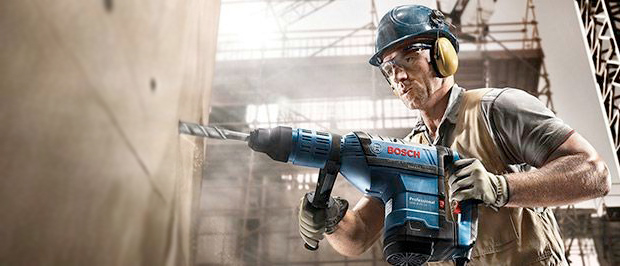
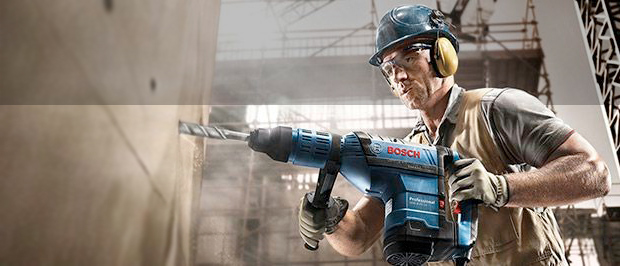
доделал фильтр, сделал сортировку по товарам

diff --git a/catalog.html b/catalog.html
@@ -40,7 +40,7 @@
 							</a>
 						</li>
 						<li class="top-btn green">
-							<a href="#">Офоромить заказ</a>
+							<a href="#">Оформить заказ</a>
 						</li>
 					</ul>
 				</div>
@@ -59,7 +59,7 @@
 							<div class="title-number">
 								<a href="tel:+74955550555">
 									<svg class="icon-phone" xmlns="http://www.w3.org/2000/svg" width="19" height="19" viewBox="0 0 19 19"><path fill="#B7BFC8" d="M15.572 18.985h-.941c-4.129-.488-7.157-2.408-9.359-4.864C3.062 11.66 1.318 8.492.978 4.228V3.084c.078-.774.459-1.304.898-1.757C2.425.766 3.25.044 4.002.019c.554-.018 1.5.38 1.879.899.329.446.504 1.339.656 2.003.154.671.505 1.643.408 2.289-.148 1.007-1.487 1.434-1.879 2.166 1.307 3.135 3.443 5.439 6.293 7.031.715-.392 1.346-1.572 2.332-1.595.359-.009.818.178 1.184.286.402.121.75.275 1.104.408.596.224 1.648.521 2.004 1.021.365.513.57 1.356.49 1.879-.164 1.041-1.879 2.197-2.901 2.579z"/></svg>
-									<span>+7 (495) 555-05-55</span>
+									<span>+7 (812) 555-05-55</span>
 								</a>
 							</div>
 							<span class="title-address">г. Санкт-Петербург, ул. Б. Конюшенная, д. 19/8</span>
@@ -164,50 +164,50 @@
 							<fieldset class="filter__manufacturers">
 								<legend>Производители:</legend>
 									<ul>
-										<li class="manufacturers__item">
+										<li class="filter__item">
 											<input type="checkbox" class="filter__input--checkbox" id="filter-manufacturers-bosch" name="Bosch">
 											<label for="filter-manufacturers-bosch" class="filter__checkbox">
-												<span class="checkbox-indicator">
+												<span class="filter-indicator">
 													<svg xmlns="http://www.w3.org/2000/svg" width="23" height="23" viewBox="0 0 23 23" class="checkbox-off"><path d="M20 2c.542 0 1 .458 1 1v17c0 .542-.458 1-1 1H3c-.542 0-1-.458-1-1V3c0-.542.458-1 1-1h17m0-2H3C1.35 0 0 1.35 0 3v17c0 1.65 1.35 3 3 3h17c1.65 0 3-1.35 3-3V3c0-1.65-1.35-3-3-3z"/></svg>
 													<svg xmlns="http://www.w3.org/2000/svg" width="27" height="23" viewBox="0 0 27 23" class="checkbox-on"><path d="M7.285 7.486l-2.829 2.829 7.783 7.783L26.171 4.166l-2.828-2.829-11.104 11.102z"/><path d="M21 20c0 .542-.458 1-1 1H3c-.542 0-1-.458-1-1V3c0-.542.458-1 1-1h16.908L21.493.415A2.96 2.96 0 0 0 20 0H3C1.35 0 0 1.35 0 3v17c0 1.65 1.35 3 3 3h17c1.65 0 3-1.35 3-3v-9.829l-2 2V20z"/></svg>
 												</span>
 												Bosch
 											</label>
 										</li>
-										<li class="manufacturers__item">
+										<li class="filter__item">
 											<input type="checkbox" class="filter__input--checkbox" id="filter-manufacturers-interskol" name="Интерскол">
 											<label for="filter-manufacturers-interskol" class="filter__checkbox">
-												<span class="checkbox-indicator">
+												<span class="filter-indicator">
 													<svg xmlns="http://www.w3.org/2000/svg" width="23" height="23" viewBox="0 0 23 23" class="checkbox-off"><path d="M20 2c.542 0 1 .458 1 1v17c0 .542-.458 1-1 1H3c-.542 0-1-.458-1-1V3c0-.542.458-1 1-1h17m0-2H3C1.35 0 0 1.35 0 3v17c0 1.65 1.35 3 3 3h17c1.65 0 3-1.35 3-3V3c0-1.65-1.35-3-3-3z"/></svg>
 													<svg xmlns="http://www.w3.org/2000/svg" width="27" height="23" viewBox="0 0 27 23" class="checkbox-on"><path d="M7.285 7.486l-2.829 2.829 7.783 7.783L26.171 4.166l-2.828-2.829-11.104 11.102z"/><path d="M21 20c0 .542-.458 1-1 1H3c-.542 0-1-.458-1-1V3c0-.542.458-1 1-1h16.908L21.493.415A2.96 2.96 0 0 0 20 0H3C1.35 0 0 1.35 0 3v17c0 1.65 1.35 3 3 3h17c1.65 0 3-1.35 3-3v-9.829l-2 2V20z"/></svg>
 												</span>
 												Интерскол
 											</label>
 										</li>
-										<li class="manufacturers__item">
+										<li class="filter__item">
 											<input type="checkbox" class="filter__input--checkbox" id="filter-manufacturers-makita" name="Makita">
 											<label for="filter-manufacturers-makita" class="filter__checkbox">
-												<span class="checkbox-indicator">
+												<span class="filter-indicator">
 													<svg xmlns="http://www.w3.org/2000/svg" width="23" height="23" viewBox="0 0 23 23" class="checkbox-off"><path d="M20 2c.542 0 1 .458 1 1v17c0 .542-.458 1-1 1H3c-.542 0-1-.458-1-1V3c0-.542.458-1 1-1h17m0-2H3C1.35 0 0 1.35 0 3v17c0 1.65 1.35 3 3 3h17c1.65 0 3-1.35 3-3V3c0-1.65-1.35-3-3-3z"/></svg>
 													<svg xmlns="http://www.w3.org/2000/svg" width="27" height="23" viewBox="0 0 27 23" class="checkbox-on"><path d="M7.285 7.486l-2.829 2.829 7.783 7.783L26.171 4.166l-2.828-2.829-11.104 11.102z"/><path d="M21 20c0 .542-.458 1-1 1H3c-.542 0-1-.458-1-1V3c0-.542.458-1 1-1h16.908L21.493.415A2.96 2.96 0 0 0 20 0H3C1.35 0 0 1.35 0 3v17c0 1.65 1.35 3 3 3h17c1.65 0 3-1.35 3-3v-9.829l-2 2V20z"/></svg>
 												</span>
 												Makita
 											</label>
 										</li>
-										<li class="manufacturers__item">
+										<li class="filter__item">
 											<input type="checkbox" class="filter__input--checkbox" id="filter-manufacturers-dewalt" name="Dewalt">
 											<label for="filter-manufacturers-dewalt" class="filter__checkbox">
-												<span class="checkbox-indicator">
+												<span class="filter-indicator">
 													<svg xmlns="http://www.w3.org/2000/svg" width="23" height="23" viewBox="0 0 23 23" class="checkbox-off"><path d="M20 2c.542 0 1 .458 1 1v17c0 .542-.458 1-1 1H3c-.542 0-1-.458-1-1V3c0-.542.458-1 1-1h17m0-2H3C1.35 0 0 1.35 0 3v17c0 1.65 1.35 3 3 3h17c1.65 0 3-1.35 3-3V3c0-1.65-1.35-3-3-3z"/></svg>
 													<svg xmlns="http://www.w3.org/2000/svg" width="27" height="23" viewBox="0 0 27 23" class="checkbox-on"><path d="M7.285 7.486l-2.829 2.829 7.783 7.783L26.171 4.166l-2.828-2.829-11.104 11.102z"/><path d="M21 20c0 .542-.458 1-1 1H3c-.542 0-1-.458-1-1V3c0-.542.458-1 1-1h16.908L21.493.415A2.96 2.96 0 0 0 20 0H3C1.35 0 0 1.35 0 3v17c0 1.65 1.35 3 3 3h17c1.65 0 3-1.35 3-3v-9.829l-2 2V20z"/></svg>
 												</span>
 												Dewalt
 											</label>
 										</li>
-										<li class="manufacturers__item">
+										<li class="filter__item">
 											<input type="checkbox" class="filter__input--checkbox" id="filter-manufacturers-hitachi" name="Hitachi">
 											<label for="filter-manufacturers-hitachi" class="filter__checkbox">
-												<span class="checkbox-indicator">
+												<span class="filter-indicator">
 													<svg xmlns="http://www.w3.org/2000/svg" width="23" height="23" viewBox="0 0 23 23" class="checkbox-off"><path d="M20 2c.542 0 1 .458 1 1v17c0 .542-.458 1-1 1H3c-.542 0-1-.458-1-1V3c0-.542.458-1 1-1h17m0-2H3C1.35 0 0 1.35 0 3v17c0 1.65 1.35 3 3 3h17c1.65 0 3-1.35 3-3V3c0-1.65-1.35-3-3-3z"/></svg>
 													<svg xmlns="http://www.w3.org/2000/svg" width="27" height="23" viewBox="0 0 27 23" class="checkbox-on"><path d="M7.285 7.486l-2.829 2.829 7.783 7.783L26.171 4.166l-2.828-2.829-11.104 11.102z"/><path d="M21 20c0 .542-.458 1-1 1H3c-.542 0-1-.458-1-1V3c0-.542.458-1 1-1h16.908L21.493.415A2.96 2.96 0 0 0 20 0H3C1.35 0 0 1.35 0 3v17c0 1.65 1.35 3 3 3h17c1.65 0 3-1.35 3-3v-9.829l-2 2V20z"/></svg>
 												</span>
@@ -216,10 +216,47 @@
 										</li>
 									</ul>
 							</fieldset>
+							<fieldset class="filter__power">
+								<legend>Питание:</legend>
+									<ul>
+										<li class="filter__item">
+											<input type="radio" class="filter__input--radio" id="filter-power-battery" name="power" value="battery">
+											<label for="filter-power-battery" class="filter__radio">
+												<span class="filter-indicator">
+													<svg xmlns="http://www.w3.org/2000/svg" width="25" height="25" viewBox="0 0 25 25" class="radio-off"><path d="M12.5 4c4.687 0 8.5 3.813 8.5 8.5 0 4.687-3.813 8.5-8.5 8.5C7.813 21 4 17.187 4 12.5 4 7.813 7.813 4 12.5 4m0-4C5.597 0 0 5.597 0 12.5S5.597 25 12.5 25 25 19.403 25 12.5 19.403 0 12.5 0z"/></svg>
+													<svg xmlns="http://www.w3.org/2000/svg" width="25" height="25" viewBox="0 0 25 25" class="radio-on"><path d="M12.5 4c4.687 0 8.5 3.813 8.5 8.5 0 4.687-3.813 8.5-8.5 8.5C7.813 21 4 17.187 4 12.5 4 7.813 7.813 4 12.5 4m0-4C5.597 0 0 5.597 0 12.5S5.597 25 12.5 25 25 19.403 25 12.5 19.403 0 12.5 0z"/><circle cx="12.5" cy="12.5" r="4.5"/></svg>
+												</span>
+												Аккумуляторные
+											</label>
+										</li>
+										<li class="filter__item">
+											<input type="radio" class="filter__input--radio" id="filter-power-network" name="power" value="network">
+											<label for="filter-power-network" class="filter__radio">
+												<span class="filter-indicator">
+													<svg xmlns="http://www.w3.org/2000/svg" width="25" height="25" viewBox="0 0 25 25" class="radio-off"><path d="M12.5 4c4.687 0 8.5 3.813 8.5 8.5 0 4.687-3.813 8.5-8.5 8.5C7.813 21 4 17.187 4 12.5 4 7.813 7.813 4 12.5 4m0-4C5.597 0 0 5.597 0 12.5S5.597 25 12.5 25 25 19.403 25 12.5 19.403 0 12.5 0z"/></svg>
+													<svg xmlns="http://www.w3.org/2000/svg" width="25" height="25" viewBox="0 0 25 25" class="radio-on"><path d="M12.5 4c4.687 0 8.5 3.813 8.5 8.5 0 4.687-3.813 8.5-8.5 8.5C7.813 21 4 17.187 4 12.5 4 7.813 7.813 4 12.5 4m0-4C5.597 0 0 5.597 0 12.5S5.597 25 12.5 25 25 19.403 25 12.5 19.403 0 12.5 0z"/><circle cx="12.5" cy="12.5" r="4.5"/></svg>
+												</span>
+												Сетевые
+											</label>
+										</li>
+									</ul>
+							</fieldset>
+							<button type="submit" class="filter__submit">Показать</button>
 						</form>
 					</aside>
 					<section class="listing-wrap">
-						<div class="listing__sort"></div>
+						<div class="listing__sort bg-auxiliary">
+							<span class="sort__title">Сортировка:</span>
+							<div class="sort__links-wrap">
+								<a href="#" class="sort__price active" >По цене</a>
+								<a href="#" class="sort__type">По типу</a>
+								<a href="#" class="sort__functional">По функционалу</a>
+								<div class="sort__toggle">
+									<a href="#" class="toggle__up toggle__up--active"></a>
+									<a href="#" class="toggle__down"></a>
+								</div>
+							</div>
+						</div>
 						<section class="listing">
 							<article class="item">
 								<div class="item__top">

diff --git a/css/style.css b/css/style.css
@@ -52,7 +52,7 @@ em, i {
 }
 
 .header-top {
-	margin-bottom: 50px;
+	margin-bottom: 46px;
 	background-color: #293449;
 }
 .header-top a {
@@ -66,6 +66,7 @@ em, i {
 	padding: 0;
 	border: none;
 	background-color: inherit;
+	cursor: pointer;
 }
 .main-search button:focus {
 	outline: none;
@@ -108,8 +109,13 @@ em, i {
 }
 .top-menu a {
 	display: block;
-	padding: 12px 30px 12px 40px;
+	padding: 12px 30px 12px 45px;
 	white-space: nowrap;
+	font-size: 17px;
+	line-height: 18px;
+}
+.top-btn:nth-child(2) a {
+	padding-left: 50px;
 }
 .top-menu a:hover {
 	background-color: #212a3a;
@@ -153,16 +159,23 @@ a:active .icon-cart {
 }
 .logo {
 	width: 220px;
-	background-color: #ee3643;
 	position: relative;
 }
 .logo a {
 	display: block;
 	text-align: center;
 	vertical-align: middle;
-	padding: 7.5px 55px;
+	padding: 9px 55px;
 	text-transform: uppercase;
 	font-size: 24px;
+	line-height: 24px;
+	background-color: #ee3643;
+}
+.logo a:hover {
+	background-color: #ca2c37;
+}
+.logo a:active {
+	background-color: #ba2732;
 }
 .logo::after {
 	display: block;
@@ -630,6 +643,7 @@ nav {
 	text-transform: uppercase;
 	border-radius: 5px;
 	font-family: inherit;
+	cursor: pointer;
 }
 .item__in-cart {
 	display: inline-flex;
@@ -997,6 +1011,9 @@ footer {
 .owl-theme .owl-dots .owl-dot.active span {
 	background-color: #ee3643;
 }
+.owl-theme .owl-dots .owl-dot:focus {
+	outline: none;
+}
 /* Контент каталога */
 
 .breadcrumbs {
@@ -1073,6 +1090,10 @@ footer {
 	border-bottom: 1px solid #e5e5e5;
 	margin-bottom: 5px;
 }
+.filter fieldset:last-of-type {
+	border-bottom: none;
+	margin-bottom: 55px;
+}
 .filter legend {
 	padding: 13px 0 12px;
 	font-weight: bold;
@@ -1123,21 +1144,23 @@ footer {
 	align-self: center;
 	margin: 0 10px;
 }
-.manufacturers__item {
+.filter__item {
 	margin-bottom: 20px;
 	list-style: none;
 }
-.manufacturers__item:last-child {
+.filter__item:last-child {
 	margin-bottom: 0;
 }
-.filter__input--checkbox {
+.filter__input--checkbox,
+.filter__input--radio {
 	display: none;
 }
-.filter__checkbox {
+.filter__checkbox,
+.filter__radio {
 	text-overflow: ellipsis;
 	cursor: pointer;
 }
-.checkbox-indicator {
+.filter-indicator {
 	position: absolute;
 	content: "";
 	max-width: 27px;
@@ -1146,25 +1169,121 @@ footer {
 	top: 50%;
 	transform: translateY(-50%);
 }
-.checkbox-off {
+.checkbox-off,
+.radio-off {
 	fill: #c5c5c5;
 }
-.checkbox-on {
+.checkbox-on,
+.radio-on {
 	display: none;
 	fill: #c5c5c5;
 }
-.filter__checkbox:hover .checkbox-off {
+.filter__checkbox:hover .checkbox-off,
+.filter__radio:hover .radio-off {
 	fill: #b5b5b5;
 }
-.filter__input--checkbox:checked + .filter__checkbox .checkbox-off {
+.filter__input--checkbox:checked + .filter__checkbox .checkbox-off,
+.filter__input--radio:checked + .filter__radio .radio-off {
 	display: none;
 }
-.filter__input--checkbox:checked + .filter__checkbox .checkbox-on {
+.filter__input--checkbox:checked + .filter__checkbox .checkbox-on,
+.filter__input--radio:checked + .filter__radio .radio-on {
 	display: block;
 }
-.filter__checkbox:hover .checkbox-on {
+.filter__checkbox:hover .checkbox-on,
+.filter__radio:hover .radio-on {
 	fill: #b5b5b5;
 }
-.filter__input--checkbox:disabled + .filter__checkbox {
+.filter__input--checkbox:disabled + .filter__checkbox,
+.filter__input--radio:disabled + .filter__radio {
 	opacity: 0.4;
+}
+.filter__submit {
+	text-transform: uppercase;
+	font-family: inherit;
+	font-size: 13px;
+	line-height: 18px;
+	padding: 9px 38px;
+	border: 1px solid #e5e5e5;
+	border-radius: 3px;
+	background-color: #fff;
+	cursor: pointer;
+}
+.filter__submit:hover {
+	border: 1px solid #d5d5d5;
+	box-shadow: 0 0 1px 0 rgba(0,0,0,0.2);
+	transition: .15s;
+}
+.filter__submit:active {
+	border: 1px solid #aaaaaa;
+	transition: .1s;
+}
+.filter__submit:focus {
+	outline: none;
+}
+.listing__sort {
+	display: flex;
+	margin-bottom: 20px;
+	text-transform: uppercase;
+	padding: 10px 20px;
+	font-size: 13px;
+	line-height: 18px;
+}
+.sort__links-wrap {
+	margin-left: auto;
+	display: flex;
+}
+.sort__links-wrap a {
+	text-decoration: none;
+	border-bottom: 1px dotted #ee3643;
+	color: #b2b2b2;
+}
+.sort__links-wrap a:hover {
+	border-bottom: 1px solid #ee3643;
+	color: #000;
+}
+.sort__links-wrap a:active,
+.sort__links-wrap a.active {
+	border-bottom: none;
+	color: #ee3643;
+}
+.sort__functional {
+	margin-left: 65px;
+}
+.sort__type {
+	margin-left: 70px;
+}
+.sort__toggle {
+	width: 45px;
+	margin-left: 45px;
+	position: relative;
+}
+.sort__toggle .toggle__up {
+	position: absolute;
+	left: 0;
+	border-left: 7px solid transparent;
+	border-right: 7px solid transparent;
+	border-bottom: 14px solid #c5c5c5;
+}
+.sort__toggle .toggle__down {
+	position: absolute;
+	right: 0;
+	border-left: 7px solid transparent;
+	border-right: 7px solid transparent;
+	border-top: 14px solid #c5c5c5;
+	border-bottom: none;
+}
+.sort__toggle .toggle__up:hover {
+	border-bottom: 14px solid #000;
+}
+.sort__toggle .toggle__up:active,
+.sort__toggle .toggle__up--active {
+	border-bottom: 14px solid #ee3643;
+}
+.sort__toggle .toggle__down:hover {
+	border-top: 14px solid #000;
+}
+.sort__toggle .toggle__down:active,
+.sort__toggle .toggle__down--active {
+	border-top: 14px solid #ee3643;
 }

diff --git a/index.html b/index.html
@@ -43,7 +43,7 @@
 							</a>
 						</li>
 						<li class="top-btn green">
-							<a href="#">Офоромить заказ</a>
+							<a href="#">Оформить заказ</a>
 						</li>
 					</ul>
 				</div>
@@ -62,7 +62,7 @@
 							<div class="title-number">
 								<a href="tel:+74955550555">
 									<svg class="icon-phone" xmlns="http://www.w3.org/2000/svg" width="19" height="19" viewBox="0 0 19 19"><path fill="#B7BFC8" d="M15.572 18.985h-.941c-4.129-.488-7.157-2.408-9.359-4.864C3.062 11.66 1.318 8.492.978 4.228V3.084c.078-.774.459-1.304.898-1.757C2.425.766 3.25.044 4.002.019c.554-.018 1.5.38 1.879.899.329.446.504 1.339.656 2.003.154.671.505 1.643.408 2.289-.148 1.007-1.487 1.434-1.879 2.166 1.307 3.135 3.443 5.439 6.293 7.031.715-.392 1.346-1.572 2.332-1.595.359-.009.818.178 1.184.286.402.121.75.275 1.104.408.596.224 1.648.521 2.004 1.021.365.513.57 1.356.49 1.879-.164 1.041-1.879 2.197-2.901 2.579z"/></svg>
-									<span>+7 (495) 555-05-55</span>
+									<span>+7 (812) 555-05-55</span>
 								</a>
 							</div>
 							<span class="title-address">г. Санкт-Петербург, ул. Б. Конюшенная, д. 19/8</span>
@@ -144,7 +144,6 @@
 						  </div>
 						  <div class="slide-item">
 						  	<img class="image1" src="img/bosch-top2-img.jpg">
-						  	<img class="image2" src="img/shadow-bosch-top2-img.png">
 						  	<span class="slider-future-title">Перфораторы</span>
 							<span class="slider-future-text">Настоящие мужские игрушки</span></div>
 						</div>
